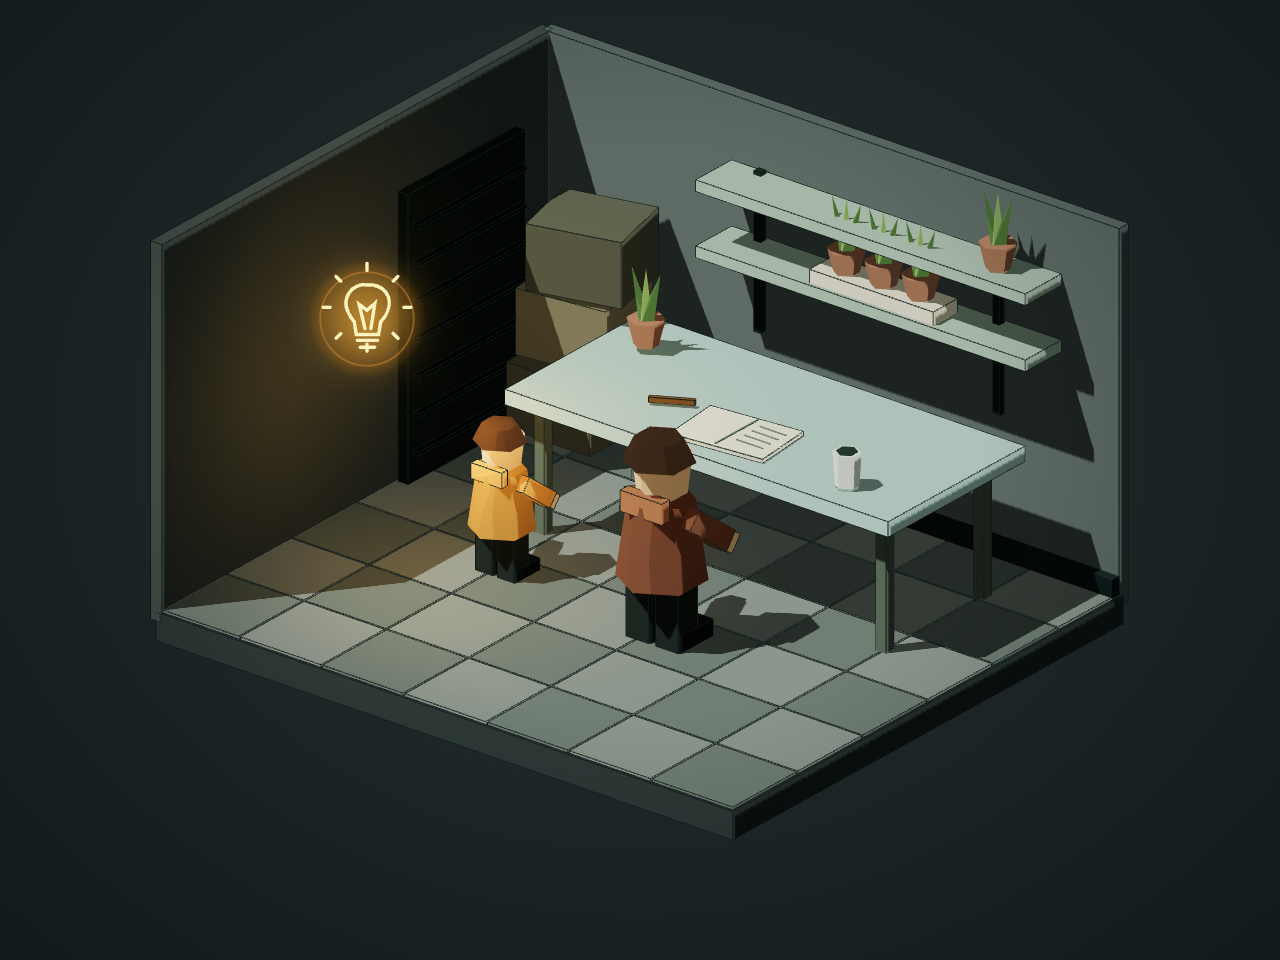
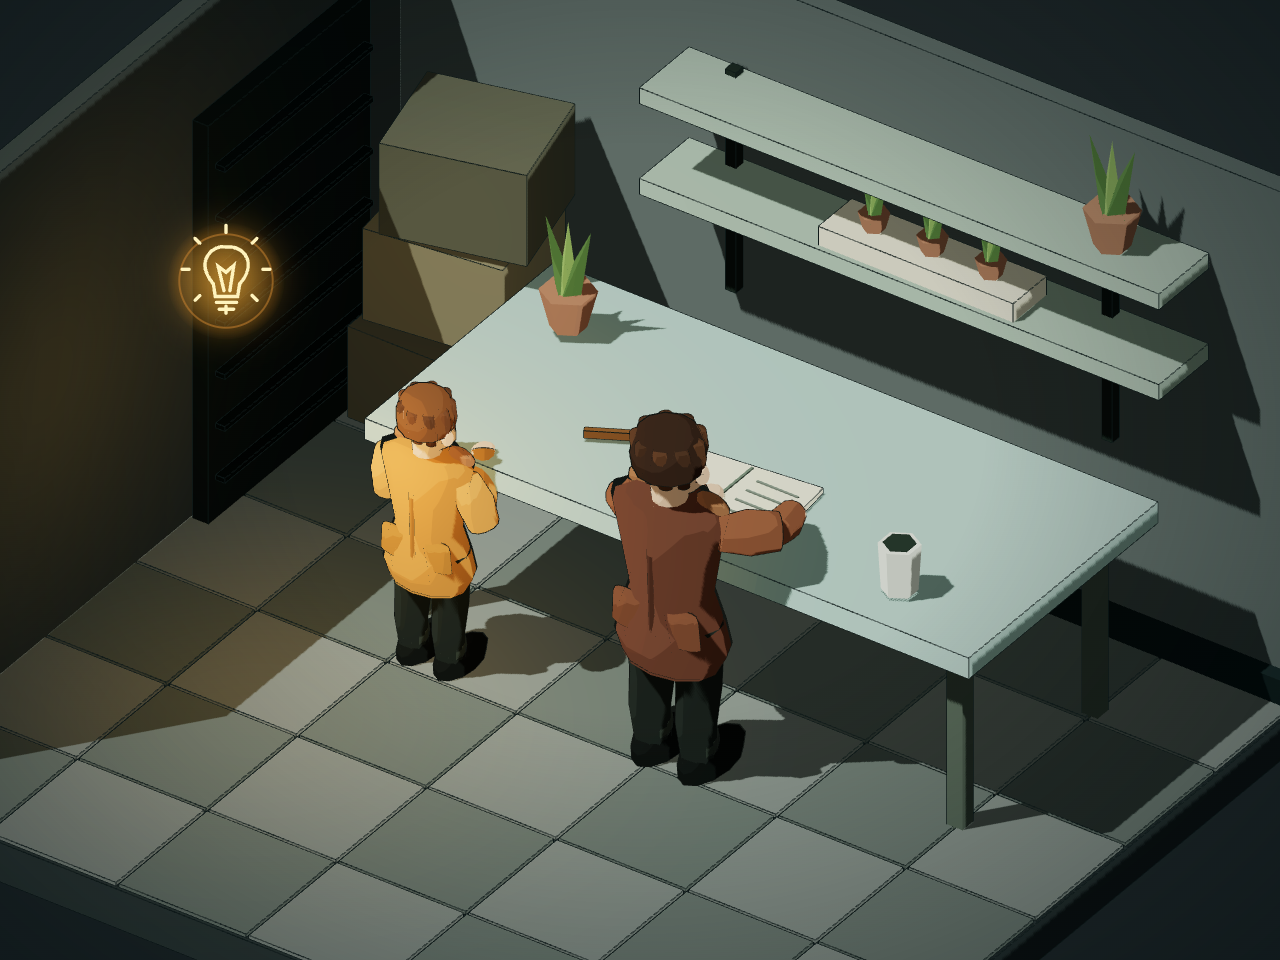
Sculpt workshop characters and tighten scene framing

diff --git a/src/scenes/Characters.tsx b/src/scenes/Characters.tsx
@@ -1,0 +1,58 @@
+import {useMemo} from 'react';
+import {BackSide, BufferGeometry, Float32BufferAttribute, Quaternion, Vector3} from 'three';
+import {useCurrentFrame} from 'remotion';
+
+type V = [number, number, number];
+type Ring = [number, number, number, number?];
+// Elliptical cross sections sculpt the silhouette, rather than stacking boxes.
+function silhouette(rings: Ring[], sides=12) {
+  const vertices:number[]=[]; const indices:number[]=[];
+  rings.forEach(([y,w,d,z=0])=>{for(let i=0;i<sides;i++){const a=i/sides*Math.PI*2;vertices.push(Math.cos(a)*w,y,Math.sin(a)*d+z);}});
+  for(let j=0;j<rings.length-1;j++)for(let i=0;i<sides;i++){const a=j*sides+i,b=j*sides+(i+1)%sides;indices.push(a,b,a+sides,b,b+sides,a+sides);}
+  for(let i=1;i<sides-1;i++){indices.push(0,i+1,i);const a=(rings.length-1)*sides;indices.push(a,a+i,a+i+1);}
+  const geo=new BufferGeometry();geo.setAttribute('position',new Float32BufferAttribute(vertices,3));for(let i=0;i<indices.length;i+=3){const a=indices[i];indices[i]=indices[i+1];indices[i+1]=a;}geo.setIndex(indices);geo.computeVertexNormals();return geo;
+}
+function Sculpt({rings,color,p=[0,0,0],r=[0,0,0]}:{rings:Ring[];color:string;p?:V;r?:V}) {
+  const key=JSON.stringify(rings);
+  const geometry=useMemo(()=>silhouette(rings),[key]);
+  return <group position={p} rotation={r}><mesh geometry={geometry} castShadow receiveShadow><meshToonMaterial color={color}/></mesh><mesh geometry={geometry} scale={1.025}><meshBasicMaterial color="#242825" side={BackSide}/></mesh></group>;
+}
+function Limb({a,b,radius,color}:{a:V;b:V;radius:number;color:string}) {
+ const start=new Vector3(...a), end=new Vector3(...b), direction=end.clone().sub(start);
+ const q=new Quaternion().setFromUnitVectors(new Vector3(0,1,0),direction.clone().normalize());
+ return <group position={start.add(end).multiplyScalar(.5)} quaternion={q}><Sculpt rings={[[-direction.length()/2,radius*.75,radius*.8],[0,radius,radius],[direction.length()/2,radius*.85,radius*.85]]} color={color}/></group>;
+}
+const Ellipsoid=({p,s,c}:{p:V;s:V;c:string})=><mesh position={p} scale={s} castShadow><sphereGeometry args={[1,12,8]}/><meshToonMaterial color={c}/></mesh>;
+export const Character=({p,child=false}:{p:V;child?:boolean})=>{
+ const frame=useCurrentFrame(); const t=frame/30; const sway=Math.sin(t*1.5)*.015;
+ const skin='#d6bda0',coat=child?'#c18b43':'#73503f',sleeve=child?'#cc9951':'#936447';
+ const hand:V=child?[.23,1.95,-.43]:[.4+Math.sin(t*3)*.035,1.71,-.72];
+ const elbow:V=child?[.5,1.58,-.05]:[.64,1.95,-.28];
+ return <group position={p} scale={child?.8:1} rotation={[.035,sway,0]}>
+ {/* Tapered trousers, knees, ankles and shaped shoes */}
+ {[-1,1].map(side=><group key={side}>
+  <Sculpt p={[side*.18,0,0]} color="#333c37" rings={[[.12,.11,.12],[.43,.13,.14,.025],[.69,.145,.15,-.015],[1.03,.17,.18],[1.23,.18,.17]]}/>
+  <Sculpt p={[side*.18,0,-.08]} color="#252b28" rings={[[.035,.145,.29,-.04],[.14,.155,.3,-.05],[.23,.11,.16,.04]]}/>
+  <Sculpt p={[side*.18,0,0]} color="#455047" rings={[[.22,.118,.13],[.29,.126,.14],[.32,.123,.14]]}/>
+ </group>)}
+ {/* Coat has a waist, shoulder line and a flared, asymmetric hem. */}
+ <Sculpt color={coat} rings={[[.88,.34,.23,.025],[1.02,.41,.27],[1.2,.37,.25],[1.42,.29,.22],[1.74,.35,.24],[2.03,.43,.22],[2.13,.29,.19]]}/>
+ <Sculpt color={child?'#a27335':'#5b4033'} p={[0,0,.23]} rings={[[1,.025,.015],[1.4,.018,.018],[1.8,.022,.012]]}/>
+ {[-1,1].map(side=><group key={side}><Sculpt color={child?'#b0803b':'#825a42'} p={[side*.23,1.15,.18]} r={[0,0,side*.14]} rings={[[0,.115,.04],[.2,.13,.045],[.24,.12,.04]]}/><Sculpt color="#a27854" p={[side*.17,1.93,-.16]} r={[.35,0,side*-.45]} rings={[[0,.09,.035],[.25,.12,.06],[.3,.07,.04]]}/></group>)}
+ <Sculpt color={skin} rings={[[2.05,.11,.12],[2.25,.13,.12]]}/>
+ <group position={[0,2.38,-.025]} rotation={[.13+Math.sin(t*1.3)*.025,child?-.22:.12,0]}>
+  <Sculpt color={skin} rings={[[-.22,.1,.12,-.04],[-.15,.19,.17,-.04],[.02,.22,.2],[.19,.2,.18],[.25,.12,.12]]}/>
+  {[-1,1].map(s=><Ellipsoid key={s} p={[s*.22,-.025,0]} s={[.045,.075,.055]} c={skin}/>)}
+  <Ellipsoid p={[0,-.06,-.205]} s={[.05,.055,.075]} c="#c4a587"/>
+  <Sculpt color={child?'#725438':'#48392e'} rings={[[.015,.237,.21,.035],[.13,.25,.225,.02],[.26,.21,.18],[.32,.1,.09]]}/>
+  {Array.from({length:9},(_,i)=>{const a=i/9*Math.PI*2;return <Sculpt key={i} color={i%2?'#574333':'#654b36'} p={[Math.cos(a)*.18,.08,Math.sin(a)*.16]} r={[Math.sin(a)*.14,0,Math.cos(a)*-.17]} rings={[[-.15,.055,.045],[.04,.075,.055],[.17,.045,.04]]}/>;})}
+ </group>
+ {/* Bent arms: the adult writes while the child holds a hand near the chin. */}
+ <Limb a={[.38,1.99,0]} b={elbow} radius={.15} color={sleeve}/><Limb a={elbow} b={hand} radius={.115} color={sleeve}/>
+ <Ellipsoid p={hand} s={[.095,.065,.115]} c={skin}/>
+ <Limb a={[-.38,1.99,0]} b={child?[-.43,1.55,-.05]:[-.43,1.57,-.35]} radius={.14} color={sleeve}/>
+ <Limb a={child?[-.43,1.55,-.05]:[-.43,1.57,-.35]} b={child?[.22,1.56,-.23]:[-.2,1.63,-.68]} radius={.105} color={sleeve}/>
+ <Ellipsoid p={child?[.22,1.56,-.23]:[-.2,1.63,-.68]} s={[.09,.06,.12]} c={skin}/>
+ {!child&&<Limb a={[hand[0],hand[1]-.03,hand[2]-.06]} b={[hand[0]-.13,1.6,hand[2]-.18]} radius={.012} color="#dbc593"/>}
+ </group>;
+};

diff --git a/src/scenes/Workshop.tsx b/src/scenes/Workshop.tsx
@@ -1,17 +1,6 @@
 import {AbsoluteFill, useCurrentFrame} from 'remotion';
 import {Box,Cylinder,Plant,Room,Stage} from './Kit';
-const Person = ({p,child=false}:{p:[number,number,number];child?:boolean}) => {
- const f=useCurrentFrame();
- return <group position={p} scale={child?.74:1} rotation={[0,Math.PI,0]}>
- {[ -.18,.18].map(x=><group key={x}><Box p={[x,.42,0]} s={[.27,.8,.3]} c="#303a36" ink/><Box p={[x,.12,.12]} s={[.3,.18,.5]} c="#232c2a" ink/></group>)}
- <Cylinder p={[0,1.12,0]} top={.33} bottom={.45} h={.85} c={child?'#b78a44':'#7f5741'} ink/>
- <Cylinder p={[0,1.83,0]} top={.3} bottom={.25} h={.45} c="#dbbe94" ink/>
- <Cylinder p={[0,2.07,-.04]} top={.24} bottom={.36} h={.25} c="#4a3a2c" ink/>
- <Box p={[0,1.55,-.26]} s={[.5,.22,.12]} c={child?'#d39b4e':'#aa7754'} ink/>
- <group position={[-.35,1.4,0]} rotation={[Math.sin(f*.05)*.09-.8,0,-.2]}><Box p={[0,-.23,0]} s={[.2,.55,.22]} c={child?'#d39b4e':'#875e45'} ink/><Box p={[0,-.5,0]} s={[.18,.18,.2]} c="#dbbe94" ink/></group>
- <group position={[.35,1.4,0]} rotation={[-1.1+Math.sin(f*.06)*.13,0,.2]}><Box p={[0,-.23,0]} s={[.2,.55,.22]} c={child?'#d39b4e':'#875e45'} ink/><Box p={[0,-.5,0]} s={[.18,.18,.2]} c="#dbbe94" ink/></group>
- </group>;
-};
+import {Character} from './Characters';
 export const Workshop = () => {
  const f=useCurrentFrame(); const pulse=1+Math.sin(f*.06)*.035;
  return <><Stage workshop><Room ink/>
@@ -24,7 +13,7 @@ export const Workshop = () => {
  {[-.8,2.1].map(x=><Box key={x} p={[x,2.4,-2.85]} s={[.08,1.7,.08]} c="#303d35" ink/>)}
  <Plant p={[-1.35,1.78,-1.8]} ink/><Plant p={[2.25,3.35,-2.65]} ink/>
  <Box p={[.9,2.58,-2.6]} s={[1.5,.15,.37]} c="#d5d4ba" ink/>
- {[-.45,0,.45].map(x=><Plant key={x} p={[.9+x,2.76,-2.6]} ink/>)}
+ {[-.45,0,.45].map(x=><group key={x} position={[.9+x,2.7,-2.6]} scale={.55}><Plant p={[0,0,0]} ink/></group>)}
  {/* Open notebook, tool, cup */}
  <Box p={[.5,1.61,-.85]} s={[1.05,.04,.72]} c="#e3e5c9" ink r={[0,.1,0]}/>
  <Box p={[.5,1.64,-.85]} s={[.018,.01,.66]} c="#7c8f7b"/>
@@ -36,10 +25,10 @@ export const Workshop = () => {
  <Box p={[-3.35,1.55,-1.5]} s={[.12,3.1,1.8]} c="#29352f" ink/>
  {Array.from({length:7},(_,i)=><Box key={i} p={[-3.25,.35+i*.4,-1.5]} s={[.07,.035,1.65]} c="#182622" ink/>)}
  {[[ -2.6,.55,-2.3],[-2.5,1.4,-2.3],[-2.4,2.15,-2.3]].map((p,i)=><Box key={i} p={p as [number,number,number]} s={[1,.7,.85]} c={['#72705a','#8a8669','#676a58'][i]} ink r={[0,i*.12,0]}/>)}
- <Person p={[.7,0,.55]}/><Person p={[-1.4,0,.35]} child/>
+ <Character p={[.65,0,-.12]}/><Character p={[-1.25,0,-.15]} child/>
  <pointLight position={[-1.8,2,1]} color="#ffbd59" intensity={5} distance={4}/>
  </Stage>
- <AbsoluteFill style={{pointerEvents:'none'}}><div style={{position:'absolute',left:'24%',top:'27%',transform:`scale(${pulse})`,width:120,height:120,borderRadius:'50%',background:'radial-gradient(circle, #ffbf4560, #f79b2220 60%, transparent 72%)',filter:'drop-shadow(0 0 18px #ffab32)'}}>
+ <AbsoluteFill style={{pointerEvents:'none'}}><div style={{position:'absolute',left:'13%',top:'23%',transform:`scale(${pulse})`,width:120,height:120,borderRadius:'50%',background:'radial-gradient(circle, #ffbf4560, #f79b2220 60%, transparent 72%)',filter:'drop-shadow(0 0 18px #ffab32)'}}>
  <svg viewBox="0 0 120 120" width="120" height="120" fill="none" stroke="#fff3bd" strokeWidth="3.5" strokeLinecap="round"><circle cx="60" cy="60" r="48" stroke="#bd7c2d" strokeWidth="2" opacity=".6"/><path d="M47 63 C27 39 47 22 60 25 C80 23 92 43 74 63 L72 76 H49 Z M50 82 H71 M53 89 H68 M58 70 L52 45 L60 51 L68 44 L64 70"/>{Array.from({length:8},(_,i)=>{const a=i*Math.PI/4;return <path key={i} d={`M${60+Math.cos(a)*38} ${48+Math.sin(a)*38} l${Math.cos(a)*7} ${Math.sin(a)*7}`}/>;})}</svg>
  </div></AbsoluteFill></>;
 };

diff --git a/src/scenes/Kit.tsx b/src/scenes/Kit.tsx
@@ -12,14 +12,14 @@ export const Box = ({p=[0,0,0], s=[1,1,1], c='#73847d', r=[0,0,0], ink=false}: {
 </group>;
 export const Cylinder = ({p=[0,0,0], top=.2, bottom=.2, h=1, c='#66776e', r=[0,0,0], ink=false}: {p?:V;top?:number;bottom?:number;h?:number;c?:string;r?:V;ink?:boolean}) => <mesh position={p} rotation={r} castShadow receiveShadow><cylinderGeometry args={[top,bottom,h,ink?6:12]}/>{ink?<meshToonMaterial color={c}/>:<meshStandardMaterial color={c} roughness={.85}/>}</mesh>;
 export const Plant = ({p,ink=false}: {p:V;ink?:boolean}) => <group position={p}><Cylinder top={.19} bottom={.12} h={.28} c="#ab8064" ink={ink}/>{[-1,0,1].map((n)=><mesh key={n} position={[n*.08,.34,0]} rotation={[0,0,n*-.3]} castShadow><coneGeometry args={[.1,.65,4]}/><meshToonMaterial color={n===0?'#8baf61':'#5f8149'}/></mesh>)}</group>;
-const Camera = () => {
+const Camera = ({workshop=false}: {workshop?:boolean}) => {
  const {camera}=useThree(); const f=useCurrentFrame();
- useLayoutEffect(()=>{camera.position.set(8-f*.001,7.5,10); camera.lookAt(0,1.3,0); camera.updateProjectionMatrix();},[camera,f]);
+ useLayoutEffect(()=>{camera.position.set(workshop?6:8-f*.001,workshop?9:7.5,workshop?8:10); camera.lookAt(0,workshop?1.65:1.3,workshop?-.65:0); camera.updateProjectionMatrix();},[camera,f,workshop]);
  return null;
 };
 export const Stage = ({children, workshop=false}: {children:ReactNode;workshop?:boolean}) => {
  const {width,height}=useVideoConfig();
- return <AbsoluteFill style={{background:workshop?'#202829':'#073b3c'}}><ThreeCanvas width={width} height={height} orthographic camera={{position:[8,7.5,10],zoom:105,near:.1,far:100}} shadows gl={{antialias:true}}><Camera/><color attach="background" args={[workshop?'#202829':'#073b3c']}/><ambientLight intensity={workshop?.65:.38}/><directionalLight position={[-3,8,4]} intensity={workshop?2:0.65} castShadow shadow-mapSize={[2048,2048]} shadow-camera-left={-7} shadow-camera-right={7} shadow-camera-top={7} shadow-camera-bottom={-7} shadow-normalBias={.025}/>{children}</ThreeCanvas><AbsoluteFill style={{pointerEvents:'none',background:'radial-gradient(ellipse at 50% 45%, transparent 38%, rgba(0,10,14,.48) 100%)'}}/></AbsoluteFill>;
+ return <AbsoluteFill style={{background:workshop?'#202829':'#073b3c'}}><ThreeCanvas width={width} height={height} orthographic camera={{position:[8,7.5,10],zoom:workshop?158:105,near:.1,far:100}} shadows gl={{antialias:true}}><Camera workshop={workshop}/><color attach="background" args={[workshop?'#202829':'#073b3c']}/><ambientLight intensity={workshop?.65:.38}/><directionalLight position={[-3,8,4]} intensity={workshop?2:0.65} castShadow shadow-mapSize={[2048,2048]} shadow-camera-left={-7} shadow-camera-right={7} shadow-camera-top={7} shadow-camera-bottom={-7} shadow-normalBias={.025}/>{children}</ThreeCanvas><AbsoluteFill style={{pointerEvents:'none',background:'radial-gradient(ellipse at 50% 45%, transparent 38%, rgba(0,10,14,.48) 100%)'}}/></AbsoluteFill>;
 };
 export const Room = ({ink=false}: {ink?:boolean}) => <>
 <Box p={[0,-.16,0]} s={[7,.3,6]} c={ink?'#414b49':'#183d3c'} ink={ink}/>

diff --git a/README.md b/README.md
@@ -36,9 +36,9 @@ Revisa los requisitos de licencia de Remotion antes del uso en producción: http
 En Studio, abre la carpeta **Dioramas**:
 
 - **Hospital**: habitación low-poly isométrica, cama, suero, cortinas en movimiento, lámpara cálida, lavabo, reloj, silla y polvo suspendido. Paleta verde y luz nocturna.
-- **Workshop**: taller ilustrado con materiales toon, contornos en muebles, dos personajes geométricos con brazos animados, plantas, cuaderno y bombilla SVG pulsante.
+- **Workshop**: taller ilustrado con materiales toon, contornos en muebles, dos personajes de malla procedural con abrigos, bolsillos, cabello por mechones y brazos articulados, plantas, cuaderno y bombilla SVG pulsante.
 
-Ambas composiciones duran 8 segundos a 30 fps, en 1280 × 960. Son interpretaciones construidas con geometría procedural, sin modelos externos; los personajes son estilizados y simples. No son reproducciones exactas de las imágenes.
+Ambas composiciones duran 8 segundos a 30 fps, en 1280 × 960. Son interpretaciones construidas con geometría procedural, sin modelos externos; los personajes son estilizados y están modelados mediante secciones elípticas. No son reproducciones exactas de las imágenes.
 
 ```sh
 npm run render:hospital
@@ -52,7 +52,7 @@ npm run still:hospital
 npm run still:workshop
 ```
 
-Los resultados quedan en `out/`. Edita `src/scenes/Hospital.tsx` y `src/scenes/Workshop.tsx`; las piezas y la cámara compartidas están en `src/scenes/Kit.tsx`. Todas las animaciones dependen del fotograma de Remotion.
+Los resultados quedan en `out/`. Edita `src/scenes/Hospital.tsx` y `src/scenes/Workshop.tsx`; el modelado de personajes está en `src/scenes/Characters.tsx`; las piezas y la cámara compartidas están en `src/scenes/Kit.tsx`. Todas las animaciones dependen del fotograma de Remotion.
 
 Para actualizar una copia existente en Windows, entra primero en la carpeta del repositorio y ejecuta `git pull`, `npm ci` y `npm start`.
 
@@ -70,3 +70,5 @@ npm run render:workshop -- --gl=swangle
 ```
 
 Validación: TypeScript, bundle y una imagen renderizada de cada composición con Chromium y `swangle`.
+
+El taller usa un encuadre cercano propio. El adulto escribe con un lápiz mientras el niño observa con una mano cerca de la cara. Las mallas incluyen siluetas de abrigo, solapas, bolsillos, pantalones, zapatos y cabello, con contornos de silueta.
